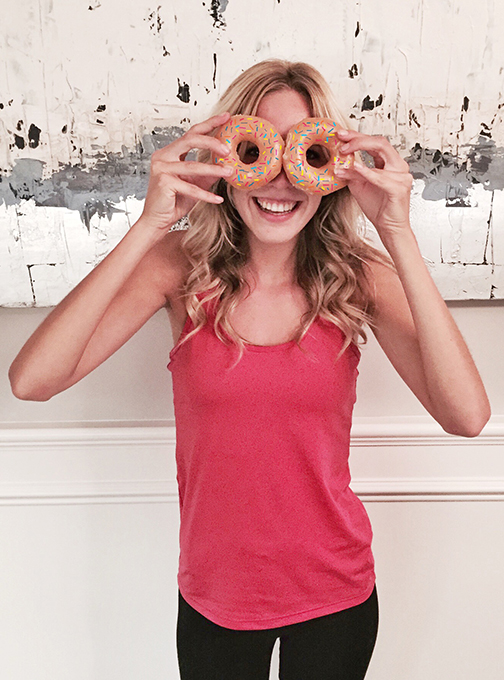
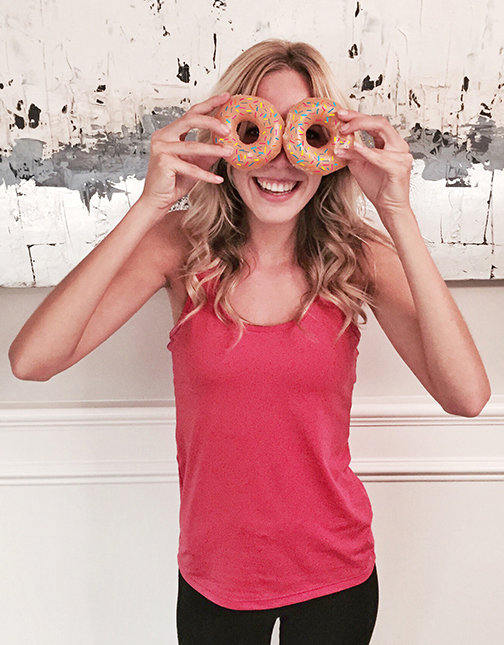
responsive view about and photography page

diff --git a/styles/stylesheet-advanced.css b/styles/stylesheet-advanced.css
@@ -54,25 +54,20 @@ html, body {
 }
 
 .about-text-photo img{
-    width: 32%
+    width: 32%;
+    margin-top: -.5em;
 }
 
 .photography-images {
     width:80%;
     margin: auto;
-    
-        
+           
 }
 
 .photography-images img{
     width: 24.5%;
-    float: left;
-    margin-right: .5%;
-    margin-bottom: .5%;
-    
-    
+    display: inline-block;    
 }
-
 
 /*end images*/
 
@@ -154,16 +149,17 @@ footer {
 }
 
 footer img {
-    width: 12%;
-    margin-right: 0em;
+    width: 12.6%;
+    margin-right: -.3em;
     margin-left: 0em;
     margin-top: .5em;
+    margin-bottom: -.3em;
     
     
 }
 
 footer p {
-   margin-top: 15em; 
+   margin-top: 10em; 
     text-align: center;
     font-size: 1.15em;
     
@@ -206,7 +202,7 @@ footer .fa-facebook {
 
 footer .fa-instagram {
     color: white;
-    
+    padding: .65em .7em .65em .7em; 
 }
 
 footer .fa-pinterest-p {
@@ -217,7 +213,7 @@ footer .fa-pinterest-p {
 
 footer .fa-linkedin {
     color: white;
-    
+   padding: .65em .7em .65em .7em;   
 }
 
 footer i
@@ -342,17 +338,107 @@ input[type=text]:focus {
 
     
 /*For Tablets*/
-@media only screen and (min-width: 48em) {
+@media screen and (max-width: 800px) {
+     
+.photography-images img{
+    width: 32.5%;     
+}
     
+h1 {
+    font-size: 2em;
+    } 
+
+h2 {font-size: 1.5em;
+    margin-top: 1em;
+    margin-bottom: .75em;
+        
+    }    
     
+p {font-size: .8em;    
+    } 
     
+header .menu-social {
+    width: 25%;
+    }
+
+footer p{
+    font-size: .9em;
+       margin-top: 4em; 
+    }    
+
+footer ul li a {
+    font-size: .75em;   
+} 
+    
+footer ul {
+    padding-top: 1.5em;
+    padding-bottom: 3em;
+}    
     
 }
 
-/*For Desktop*/
-@media only screen and (min-width: 64em) {
+/*For iPhone*/
+@media screen and (max-width: 400px) {
     
+      
+.photography-images img{
+    width: 49.25%;     
+}
     
+h1 {
+    font-size: 1.5em;
+    } 
+
+h2 {font-size: 1em;
+    margin-top: 1em;
+    margin-bottom: .75em;
+        
+    }    
+    
+p {font-size: .8em;    
+    } 
+    
+.me-photo {
+    width: 60%;
+    clear: both;
+    margin-left: 20%;
+    margin-bottom: 1em;
+    padding-right: 0%;
+    border-right: 0px;
+    
+}
+   
+    
+.about-text-photo {
+    width:80%;
+    clear: both;
+   margin-left: 10%;
+}
+   
+    
+header .menu-social {
+    width: 45%;
+    }
+
+footer p{
+    font-size: .75em;
+    margin-top: 4em; 
+    margin-bottom: .5em;
+    }    
+
+footer ul li a {
+    font-size: .5em; 
+} 
+    
+footer ul {
+    padding-top: 1em;
+    padding-bottom: 2.5em;
+}    
+    
+footer img {
+    width: 24.5%;
+    margin-top: 0em;
+}  
     
     
 }

diff --git a/about-advanced.html b/about-advanced.html
@@ -8,7 +8,7 @@
   <meta charset="utf-8">
     <title>About Me</title>
     
-    <meta name="viewport" content="width=device-width, initial-scale=1.0">
+ <meta name="viewport" content="width=device-width, initial-scale=1.0, maximum-scale=1">
 
     <link href="styles/reset.css" type="text/css" rel="stylesheet">
     <link href="styles/stylesheet-advanced.css" type="text/css" rel="stylesheet">
@@ -26,8 +26,8 @@
      <div class="menu">
     <ul>
         <li> <a href="index-advanced.html">Home</a></li>
-        <li> <a href="about-advanced.html">About</a></li>
-        <li> <a href="photography-advaned.html">Photo</a></li>
+        <li> <a href="about-advanced.html">About Me</a></li>
+        <li> <a href="photography-advaned.html">Photography</a></li>
         <li> <a href="contact-advanced.html">Contact</a></li>
     </ul>
     </div>
@@ -62,9 +62,9 @@
     </div>
      
 <div class="about-text-photo">
-    <p> Hello! My name is Nicole Madsen and I am a junior at California Polytechnic State University located in the beautiful San Luis Obispo. I am getting a Bachelor of Science in Graphic Communication with a concentration in Web and Digital Media. In addition, I am minoring in Integrated Marketing Communications. </p> <br>
-
-    <p>In August 2015, I studied abroad in Seville, Spain for 4 months. While I was there I went to 2 continents, 9 countries, and 19 cities. I took courses in Spanish, women's studies, architecture, and painting. On my next adventure, I want to explore Eastern Asia. </p> <br>
+    <p> Hello! My name is Nicole Madsen and I am a junior at California Polytechnic State University located in the beautiful San Luis Obispo. I am getting a Bachelor of Science in Graphic Communication with a concentration in Web and Digital Media. In addition, I am minoring in Integrated Marketing Communications. Outside of my studies I enjoy traveling, photography, hiking, and exploring new places. </p> <br>
+    
+    <p>I have designed and coded this website in hopes to share with you some of my graphic design projects and my travel &amp; fashion photography, as well as a little bit about myself. For inquiries please contact me. I hope you enjoy!</p> <br>
 
     <p> <em>Here are a few of my favorite things... </em></p> <br>
 

diff --git a/photography-advaned.html b/photography-advaned.html
@@ -9,7 +9,7 @@
   <meta charset="utf-8">
     <title>Photography</title>
     
-        <meta name="viewport" content="width=device-width, initial-scale=1.0">
+        <meta name="viewport" content="width=device-width, initial-scale=1.0, maximum-scale=1">
 
     <link href="styles/reset.css" type="text/css" rel="stylesheet">
     <link href="styles/stylesheet-advanced.css" type="text/css" rel="stylesheet">
@@ -27,8 +27,8 @@
      <div class="menu">
     <ul>
         <li> <a href="index-advanced.html">Home</a></li>
-        <li> <a href="about-advanced.html">About</a></li>
-        <li> <a href="photography-advaned.html">Photo</a></li>
+        <li> <a href="about-advanced.html">About Me</a></li>
+        <li> <a href="photography-advaned.html">Photography</a></li>
         <li> <a href="contact-advanced.html">Contact</a></li>
     </ul>
     </div>

diff --git a/index-advanced.html b/index-advanced.html
@@ -8,7 +8,7 @@
   <meta charset="utf-8">
     <title>Nicole Madsen's Page</title>
     
-    <meta name="viewport" content="width=device-width, initial-scale=1.0">
+ <meta name="viewport" content="width=device-width, initial-scale=1.0, maximum-scale=1">
 
     <link href="styles/reset.css" type="text/css" rel="stylesheet">
     <link href="styles/stylesheet-advanced.css" type="text/css" rel="stylesheet">
@@ -25,8 +25,8 @@
      <div class="menu">
     <ul>
         <li> <a href="index-advanced.html">Home</a></li>
-        <li> <a href="about-advanced.html">About</a></li>
-        <li> <a href="photography-advaned.html">Photo</a></li>
+        <li> <a href="about-advanced.html">About Me</a></li>
+        <li> <a href="photography-advaned.html">Photography</a></li>
         <li> <a href="contact-advanced.html">Contact</a></li>
     </ul>
     </div>

diff --git a/contact-advanced.html b/contact-advanced.html
@@ -9,7 +9,7 @@
   <meta charset="utf-8">
     <title>Contact</title>
     
-        <meta name="viewport" content="width=device-width, initial-scale=1.0">
+         <meta name="viewport" content="width=device-width, initial-scale=1.0, maximum-scale=1">
 
     <link href="styles/reset.css" type="text/css" rel="stylesheet">
     <link href="styles/stylesheet-advanced.css" type="text/css" rel="stylesheet">
@@ -27,8 +27,8 @@
      <div class="menu">
     <ul>
         <li> <a href="index-advanced.html">Home</a></li>
-        <li> <a href="about-advanced.html">About</a></li>
-        <li> <a href="photography-advaned.html">Photo</a></li>
+        <li> <a href="about-advanced.html">About Me</a></li>
+        <li> <a href="photography-advaned.html">Photography</a></li>
         <li> <a href="contact-advanced.html">Contact</a></li>
     </ul>
     </div>
